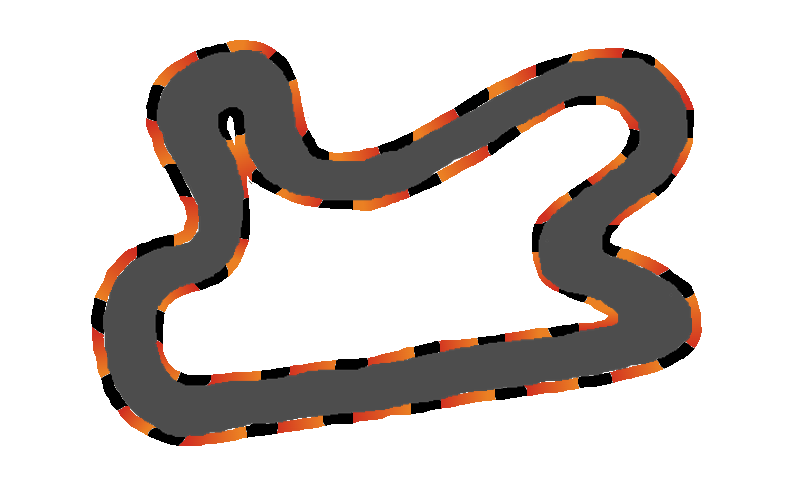
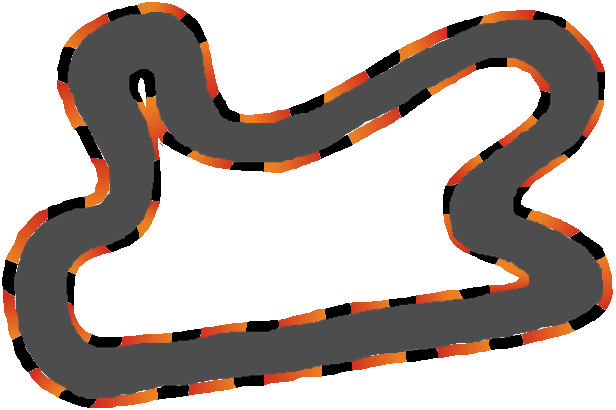
making some of the track

diff --git a/code/cars.py b/code/cars.py
@@ -1,23 +1,47 @@
 import pyglet
 from pyglet import sprite, image
-from pyglet.window import key
+from pyglet.window import key, mouse
 
 from math import sin, cos, atan, radians, sqrt
 
-window = pyglet.window.Window(width=2280, height=1580, caption="Images")
+window = pyglet.window.Window(caption="Images")
+window.set_fullscreen(True)
 
-logo_image = image.load("images/track V4.png")
+lines = pyglet.graphics.Batch()
+
+track_image = image.load("images/track V4.png")
 car_image = image.load("images/car.png")
 
 car_image.anchor_x = car_image.width // 2
 car_image.anchor_y = car_image.height // 2
 
-line = pyglet.shapes.Line(x=200, y=900, x2=300, y2=800, width = 1)
-line1 = pyglet.shapes.Line(x=300, y=800, x2=400, y2=600, width = 1)
-line2 = pyglet.shapes.Line(x=400, y=600, x2=700, y2=1000, width = 1)
-line3 = pyglet.shapes.Line(x=700, y=1000, x2=100, y2=800, width = 1)
+line = pyglet.shapes.Line(x=472, y=23, x2=1723, y2=217, width = 1, batch = lines)
+line1 = pyglet.shapes.Line(x=1723, y=217, x2=1777, y2=295, width = 1, batch = lines)
+line2 = pyglet.shapes.Line(x=1777, y=295, x2=1764, y2=392, width = 1, batch = lines)
+line3 = pyglet.shapes.Line(x=1764, y=392, x2=1704, y2=459, width = 1, batch = lines)
+line4 = pyglet.shapes.Line(x=1704, y=459, x2=1580, y2=510, width = 1, batch = lines)
+line5 = pyglet.shapes.Line(x=1580, y=510, x2=1562, y2=548, width = 1, batch = lines)
+line6 = pyglet.shapes.Line(x=1562, y=548, x2=1571, y2=584, width = 1, batch = lines)
+line7 = pyglet.shapes.Line(x=1571, y=584, x2=1707, y2=690, width = 1, batch = lines)
+line8 = pyglet.shapes.Line(x=1707, y=690, x2=1765, y2=800, width = 1, batch = lines)
+line9 = pyglet.shapes.Line(x=1765, y=800, x2=1760, y2=901, width = 1, batch = lines)
+line10 = pyglet.shapes.Line(x=1760, y=901, x2=1696, y2=984, width = 1, batch = lines)
+line11 = pyglet.shapes.Line(x=1696, y=984, x2=1632, y2=1021, width = 1, batch = lines)
+line12 = pyglet.shapes.Line(x=1632, y=1021, x2=1462, y2=1022, width = 1, batch = lines)
+line13 = pyglet.shapes.Line(x=1462, y=1022, x2=1193, y2=906, width = 1, batch = lines)
+line14 = pyglet.shapes.Line(x=1193, y=906, x2=892, y2=771, width = 1, batch = lines)
+line15 = pyglet.shapes.Line(x=892, y=771, x2=802, y2=777, width = 1, batch = lines)
+line16 = pyglet.shapes.Line(x=802, y=777, x2=746, y2=883, width = 1, batch = lines)
+line17 = pyglet.shapes.Line(x=746, y=883, x2=711, y2=995, width = 1, batch = lines)
+line18 = pyglet.shapes.Line(x=711, y=995, x2=628, y2=1050, width = 1, batch = lines)
+line19 = pyglet.shapes.Line(x=628, y=1050, x2=494, y2=1031, width = 1, batch = lines)
+line20 = pyglet.shapes.Line(x=494, y=1031, x2=384, y2=964, width = 1, batch = lines)
+line21 = pyglet.shapes.Line(x=384, y=964, x2=364, y2=832, width = 1, batch = lines)
+line22 = pyglet.shapes.Line(x=364, y=832, x2=462, y2=624, width = 1, batch = lines)
+line23 = pyglet.shapes.Line(x=462, y=624, x2=453, y2=555, width = 1, batch = lines)
+line24 = pyglet.shapes.Line(x=453, y=555, x2=269, y2=478, width = 1, batch = lines)
 
-line_list = [line, line1, line2, line3]
+line_list = [line, line1, line2, line3, line4, line5, line6, line7, line8, line9, line10, line11, line12, line13, line14, line15, line16, line17, line18, line19, line20, line21, line22, line23, line24]
 
 def overlap_check(car_hitbox, input_lines):
   global collide_x
@@ -32,10 +56,10 @@ def overlap_check(car_hitbox, input_lines):
               
   
 
-logo = sprite.Sprite(logo_image, x=1, y=1)
+track = sprite.Sprite(track_image, x=200, y=0)
 car = sprite.Sprite(car_image, x=40, y=900)
 car.scale = 0.1
-logo.scale = 3
+track.scale = 2.6
 car.rotation = 1
 
 #these are constant values - having them as callable variables should make the update function faster
@@ -44,35 +68,32 @@ half_height_car = car_image.height // 20
 h = sqrt(half_width_car**2 + half_height_car**2)
 angle = atan(half_width_car/half_height_car) - radians(car.rotation)
 
+#defining variables, lists, and dictionaries
 sprite_hitbox = [(0,0),(0,0),(0,0),(0,0)]
-
 forward = False
 backward = False
 aclockwise = False
 clockwise = False
-
 drift = False
 backDict = {}
 collList = []
+rounds = 0
 
+#tunable variables 
 velocity = 0
 max_velocity = 8
 friction = 0.07
 acceleration = 0.1
 rotation_speed = 3
-
 drift_time = 8
-rounds = 0
+
 
 @window.event
 def on_draw():
   window.clear()
-  logo.draw()
+  track.draw()
   car.draw()
-  line.draw()
-  line1.draw()
-  line2.draw()
-  line3.draw()
+  lines.draw()
   circle.draw()
   circle1.draw()
   circle2.draw()
@@ -105,6 +126,11 @@ def on_key_press(symbol, modifiers):
     max_velocity = 12
     rotation_speed = 3
     rounds = 0
+
+@window.event   
+def on_mouse_press(x,y,button, modifiers):
+  if button == mouse.LEFT:
+    print(x,y)
 
 @window.event
 def on_key_release(symbol, modifiers):
